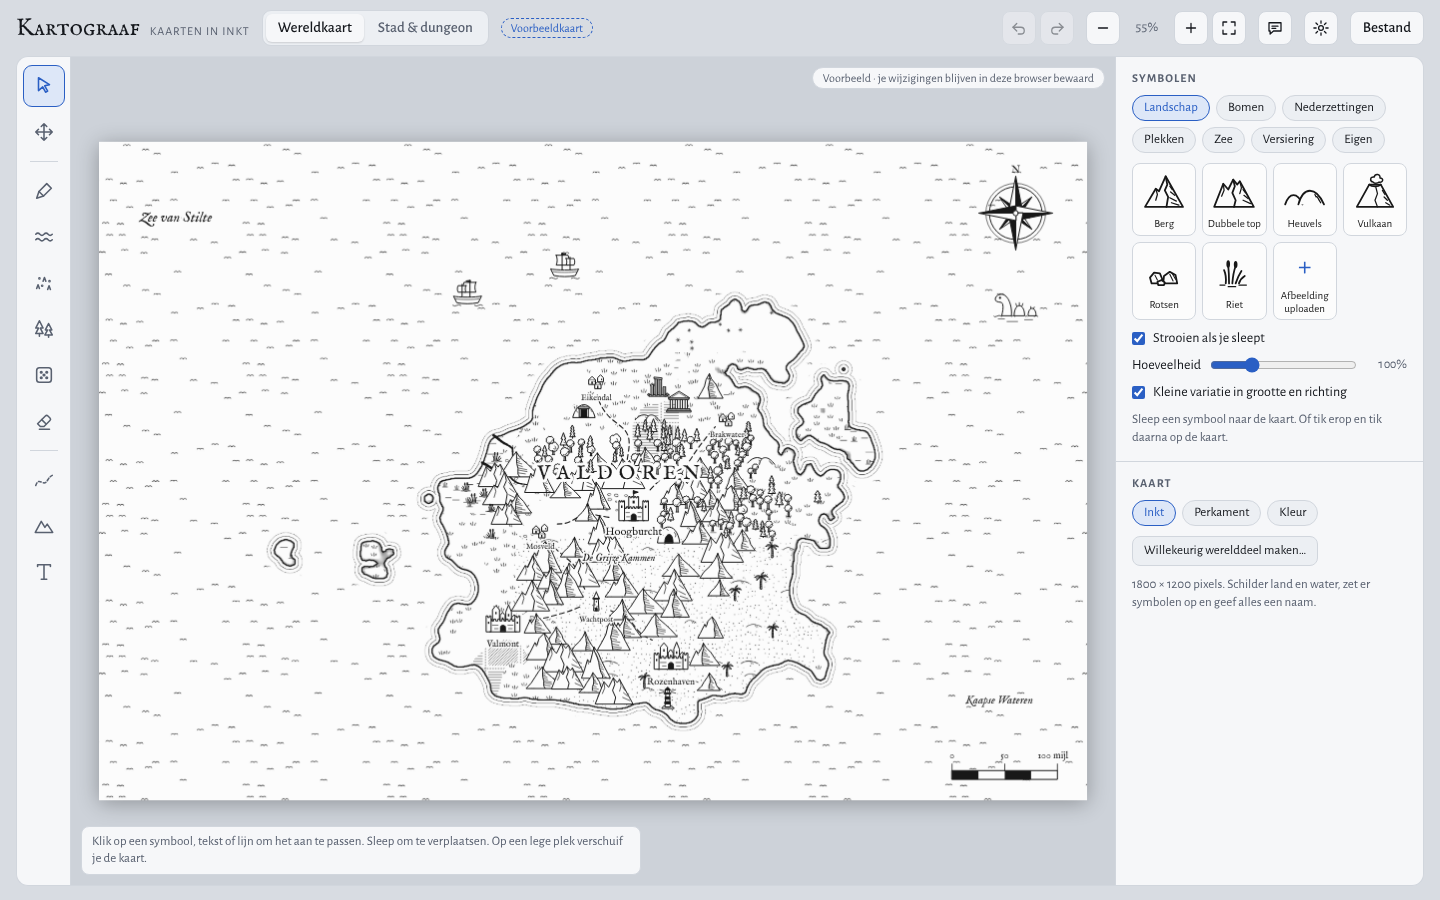
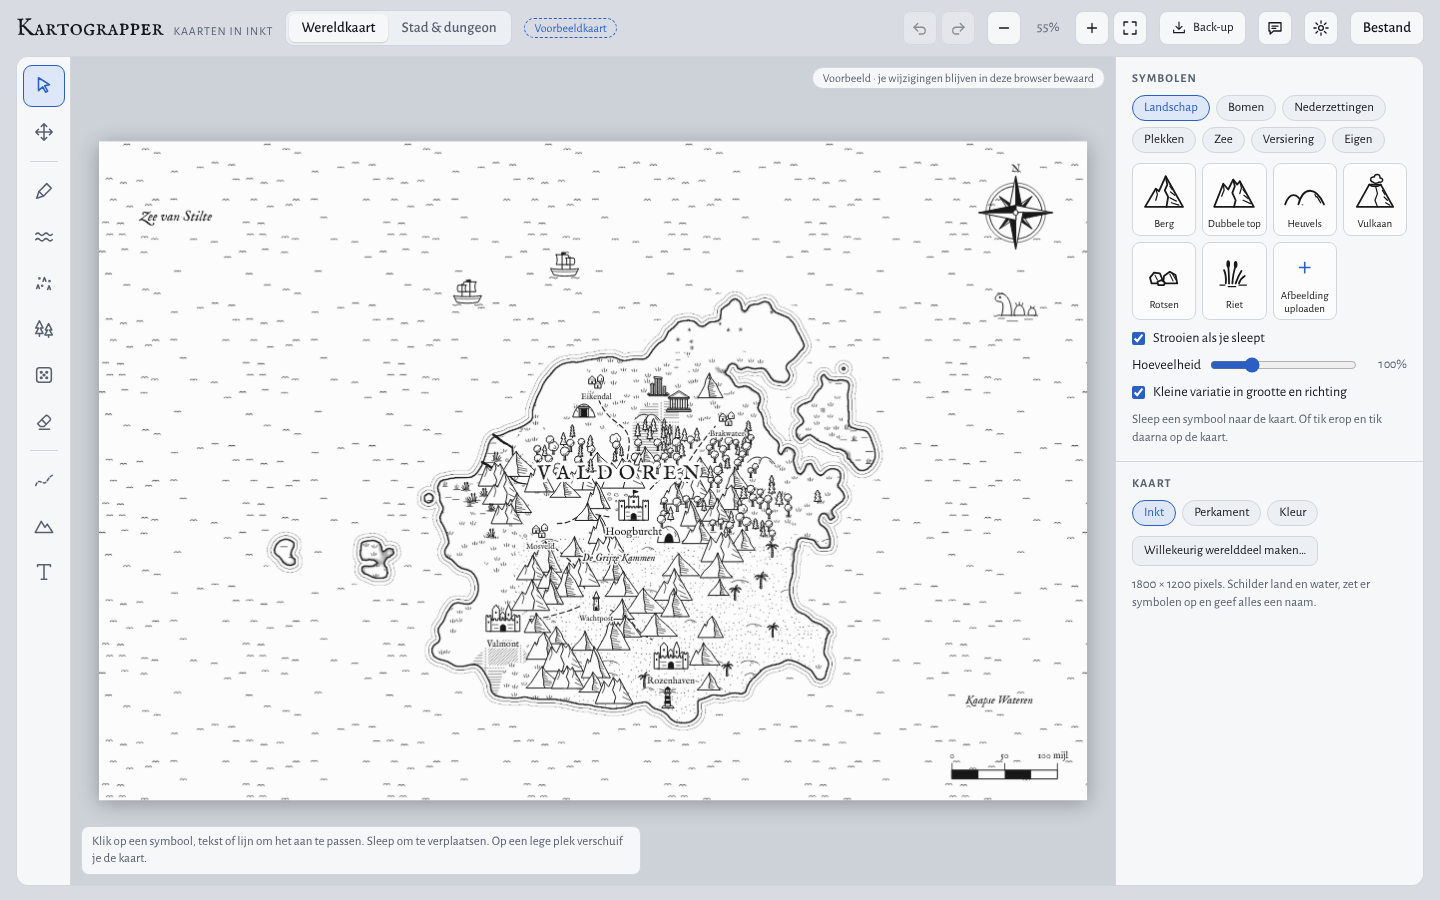
De app heet nu Kartograpper (1.8.0)
Alles wat zichtbaar is draagt de nieuwe naam: titel, kop, venster,
snelkoppelingen, Android-label, installers en back-upbestanden.
Opslagnamen, de Windows-gegevensmap en het Android-pakket blijven
ongewijzigd, zodat bestaande kaarten na de update gewoon blijven staan.

Claude-Session: https://claude.ai/code/session_01TuMUPqDhDx1mk6anT1eN2W

diff --git a/index.html b/index.html
@@ -3,7 +3,7 @@
 <head>
 <meta charset="utf-8">
 <meta name="viewport" content="width=device-width,initial-scale=1,viewport-fit=cover">
-<title>Kartograaf</title>
+<title>Kartograpper</title>
 <meta name="description" content="Teken fantasykaarten in inkt, perkament of kleur: wereldkaarten, steden en dungeons.">
 <meta name="theme-color" content="#d8dce2" media="(prefers-color-scheme: light)">
 <meta name="theme-color" content="#101317" media="(prefers-color-scheme: dark)">
@@ -11,7 +11,7 @@
 <link rel="icon" type="image/png" href="icons/icon-192.png">
 <link rel="apple-touch-icon" href="icons/apple-touch-icon.png">
 <meta name="apple-mobile-web-app-capable" content="yes">
-<meta name="apple-mobile-web-app-title" content="Kartograaf">
+<meta name="apple-mobile-web-app-title" content="Kartograpper">
 <link rel="preconnect" href="https://fonts.googleapis.com">
 <link rel="preconnect" href="https://fonts.gstatic.com" crossorigin>
 <link rel="stylesheet" href="https://fonts.googleapis.com/css2?family=Alegreya+Sans:ital,wght@0,400;0,500;0,700;1,400&family=IM+Fell+English:ital@0;1&family=IM+Fell+English+SC&display=swap">
@@ -249,7 +249,7 @@ body.dragging .stage{outline:3px dashed var(--accent);outline-offset:-6px}
 
 <div class="app" id="app">
   <header class="bar">
-    <div class="brand">Kartograaf <small>kaarten in inkt</small></div>
+    <div class="brand">Kartograpper <small>kaarten in inkt</small></div>
     <div class="seg" id="kindSeg">
       <button type="button" data-kind="world" aria-pressed="true"><span class="wide-l">Wereldkaart</span><span class="narrow-l">Wereld</span></button>
       <button type="button" data-kind="local" aria-pressed="false"><span class="wide-l">Stad &amp; dungeon</span><span class="narrow-l">Stad</span></button>
@@ -1469,7 +1469,7 @@ async function docToRecord(d, asText) {
     shapes: lib.shapes.filter(sh => d.stamps.some(st => st.a === 'c:' + sh.id)), terrains: lib.terrains.filter(t => d.layers['t:u:' + t.id]), uploads: await usedUploads(d, asText) };
 }
 async function docFromRecord(rec) {
-  if (!rec || (rec.kind !== 'world' && rec.kind !== 'local')) throw new Error('Dit is geen kaart van Kartograaf.');
+  if (!rec || (rec.kind !== 'world' && rec.kind !== 'local')) throw new Error('Dit is geen kaart van Kartograpper.');
   const w = +rec.w, h = +rec.h; if (!(w >= 200 && w <= 4000 && h >= 200 && h <= 4000)) throw new Error('Het kaartformaat klopt niet.');
   let libChanged = false;
   for (const sh of rec.shapes || []) { if (!validShape(sh)) continue; if (!lib.shapes.some(x => x.id === sh.id)) { lib.shapes.push(sh); libChanged = true; } registerShape(sh); }
@@ -2606,7 +2606,7 @@ async function libraryObject() {
   for (const u of lib.uploads) { const b = UPBLOB.get(u.id); if (b) ups.push({ ...u, data: await blobToDataURL(b) }); }
   return { app: 'kartograaf-bibliotheek', v: 1, brushes: lib.brushes, shapes: lib.shapes, terrains: lib.terrains, types: lib.types, uploads: ups };
 }
-async function saveLibraryFile() { menu.open = false; await offerFile('kartograaf-bibliotheek.json', JSON.stringify(await libraryObject())); }
+async function saveLibraryFile() { menu.open = false; await offerFile('kartograpper-bibliotheek.json', JSON.stringify(await libraryObject())); }
 
 /* ---------- import a whole folder or zip and mark what belongs where ---------- */
 const pk = { items: [], last: -1 };
@@ -3076,7 +3076,7 @@ $('#newForm').addEventListener('submit', async e => {
 
 /* ---------- boot ---------- */
 /* Updates never throw data away: before a new version touches anything, it copies your maps and library to a restore point. */
-const APP_VERSION = '1.7.1', REPO_URL = 'https://github.com/robinbollens-commits/Kartograpper';
+const APP_VERSION = '1.8.0', REPO_URL = 'https://github.com/robinbollens-commits/Kartograpper';
 let firstRun = false;
 async function guardUpdate() {
   const meta = await store.get('meta'), prev = meta && meta.version || null;
@@ -3099,7 +3099,7 @@ async function recToText(rec) {
 async function renderBackups() {
   const box = $('#libBackup'); box.textContent = '';
   const b = await store.get('backup'), rescues = [['world', await store.get('rescue:world')], ['local', await store.get('rescue:local')]].filter(x => x[1]);
-  if (!b && !rescues.length) { const p = document.createElement('p'); p.className = 'note'; p.textContent = 'Nog geen herstelpunten. Bij elke nieuwe versie van Kartograaf bewaar ik eerst automatisch een kopie van je kaarten en bibliotheek.'; box.append(p); return; }
+  if (!b && !rescues.length) { const p = document.createElement('p'); p.className = 'note'; p.textContent = 'Nog geen herstelpunten. Bij elke nieuwe versie van Kartograpper bewaar ik eerst automatisch een kopie van je kaarten en bibliotheek.'; box.append(p); return; }
   const mk = (text, buttons) => { const d = document.createElement('div'); d.className = 'backup'; const t = document.createElement('span'); t.textContent = text; d.append(t, btnRow(buttons)); box.append(d); };
   const saveRec = async (rec, name) => { if (!rec) { toast('Daar staat geen kaart in.'); return; } await offerFile(name, JSON.stringify(await recToText(rec))); };
   if (b) mk(`Kopie van ${new Date(b.date).toLocaleString('nl-BE')}, gemaakt ${b.why || 'vóór de overstap naar versie ' + b.to}.`, [
@@ -3127,15 +3127,15 @@ async function fullBackup() {
 async function saveFullBackup() {
   menu.open = false; commitLabelEdit(); toast('Back-up wordt gemaakt…');
   const d = new Date(), stamp = `${d.getFullYear()}-${String(d.getMonth() + 1).padStart(2, '0')}-${String(d.getDate()).padStart(2, '0')}`;
-  if (await offerFile(`kartograaf-backup-${stamp}.json`, JSON.stringify(await fullBackup()))) { lsSet('kartograaf.lastBackup', String(Date.now())); syncBackupDialog(); }
+  if (await offerFile(`kartograpper-backup-${stamp}.json`, JSON.stringify(await fullBackup()))) { lsSet('kartograaf.lastBackup', String(Date.now())); syncBackupDialog(); }
 }
 const lsGet = k => { try { return localStorage.getItem(k); } catch { return null; } };
 const lsSet = (k, v) => { try { if (v == null) localStorage.removeItem(k); else localStorage.setItem(k, v); } catch {} };
 function syncBackupDialog(welcome) {
   if (welcome !== undefined) {
-    $('#bkTitle').textContent = welcome ? 'Welkom bij Kartograaf' : 'Back-up';
+    $('#bkTitle').textContent = welcome ? 'Welkom bij Kartograpper' : 'Back-up';
     $('#bkIntro').textContent = welcome
-      ? 'Heb je Kartograaf al eens gebruikt op een ander toestel of in een andere installatie? Importeer dan je back-up, en je kaarten en bibliotheek staan er meteen. Nieuw? Sluit dit venster en begin met de voorbeeldkaart.'
+      ? 'Heb je Kartograpper al eens gebruikt op een ander toestel of in een andere installatie? Importeer dan je back-up, en je kaarten en bibliotheek staan er meteen. Nieuw? Sluit dit venster en begin met de voorbeeldkaart.'
       : 'Eén bestand met al je kaarten en je hele bibliotheek: geüploade assets, penselen, getekende vormen en ondergronden. Bewaar het op een veilige plek, en open het in een nieuwe installatie om verder te werken.';
     $('#bkClose').textContent = welcome ? 'Meteen beginnen' : 'Sluiten';
   }
@@ -3182,7 +3182,7 @@ $('#fullOpen').addEventListener('click', pickBackupFile);
 let fbKind = 'bug';
 function fbBody() {
   const parts = [$('#fbText').value.trim() || '(geen beschrijving)'];
-  if ($('#fbInfo').checked) parts.push('', '---', `Kartograaf ${APP_VERSION} · ${kind === 'world' ? 'Wereldkaart' : 'Stad & dungeon'} · stijl ${doc?.palette || '?'}`, `Browser: ${navigator.userAgent}`, `Scherm: ${innerWidth} × ${innerHeight}`);
+  if ($('#fbInfo').checked) parts.push('', '---', `Kartograpper ${APP_VERSION} · ${kind === 'world' ? 'Wereldkaart' : 'Stad & dungeon'} · stijl ${doc?.palette || '?'}`, `Browser: ${navigator.userAgent}`, `Scherm: ${innerWidth} × ${innerHeight}`);
   return parts.join('\n');
 }
 function fbTitle() { return ({ bug: '[Fout] ', idee: '[Idee] ', vraag: '[Vraag] ' })[fbKind] + ($('#fbTitleIn').value.trim() || 'Feedback'); }

diff --git a/src/kartograaf.html b/src/kartograaf.html
@@ -1,4 +1,4 @@
-<title>Kartograaf</title>
+<title>Kartograpper</title>
 <meta name="claude:viewport-fit-sides" content="cover">
 <link rel="preconnect" href="https://fonts.googleapis.com">
 <link rel="preconnect" href="https://fonts.gstatic.com" crossorigin>
@@ -228,7 +228,7 @@ body.dragging .stage{outline:3px dashed var(--accent);outline-offset:-6px}
 
 <div class="app" id="app">
   <header class="bar">
-    <div class="brand">Kartograaf <small>kaarten in inkt</small></div>
+    <div class="brand">Kartograpper <small>kaarten in inkt</small></div>
     <div class="seg" id="kindSeg">
       <button type="button" data-kind="world" aria-pressed="true"><span class="wide-l">Wereldkaart</span><span class="narrow-l">Wereld</span></button>
       <button type="button" data-kind="local" aria-pressed="false"><span class="wide-l">Stad &amp; dungeon</span><span class="narrow-l">Stad</span></button>
@@ -1448,7 +1448,7 @@ async function docToRecord(d, asText) {
     shapes: lib.shapes.filter(sh => d.stamps.some(st => st.a === 'c:' + sh.id)), terrains: lib.terrains.filter(t => d.layers['t:u:' + t.id]), uploads: await usedUploads(d, asText) };
 }
 async function docFromRecord(rec) {
-  if (!rec || (rec.kind !== 'world' && rec.kind !== 'local')) throw new Error('Dit is geen kaart van Kartograaf.');
+  if (!rec || (rec.kind !== 'world' && rec.kind !== 'local')) throw new Error('Dit is geen kaart van Kartograpper.');
   const w = +rec.w, h = +rec.h; if (!(w >= 200 && w <= 4000 && h >= 200 && h <= 4000)) throw new Error('Het kaartformaat klopt niet.');
   let libChanged = false;
   for (const sh of rec.shapes || []) { if (!validShape(sh)) continue; if (!lib.shapes.some(x => x.id === sh.id)) { lib.shapes.push(sh); libChanged = true; } registerShape(sh); }
@@ -2585,7 +2585,7 @@ async function libraryObject() {
   for (const u of lib.uploads) { const b = UPBLOB.get(u.id); if (b) ups.push({ ...u, data: await blobToDataURL(b) }); }
   return { app: 'kartograaf-bibliotheek', v: 1, brushes: lib.brushes, shapes: lib.shapes, terrains: lib.terrains, types: lib.types, uploads: ups };
 }
-async function saveLibraryFile() { menu.open = false; await offerFile('kartograaf-bibliotheek.json', JSON.stringify(await libraryObject())); }
+async function saveLibraryFile() { menu.open = false; await offerFile('kartograpper-bibliotheek.json', JSON.stringify(await libraryObject())); }
 
 /* ---------- import a whole folder or zip and mark what belongs where ---------- */
 const pk = { items: [], last: -1 };
@@ -3055,7 +3055,7 @@ $('#newForm').addEventListener('submit', async e => {
 
 /* ---------- boot ---------- */
 /* Updates never throw data away: before a new version touches anything, it copies your maps and library to a restore point. */
-const APP_VERSION = '1.7.1', REPO_URL = 'https://github.com/robinbollens-commits/Kartograpper';
+const APP_VERSION = '1.8.0', REPO_URL = 'https://github.com/robinbollens-commits/Kartograpper';
 let firstRun = false;
 async function guardUpdate() {
   const meta = await store.get('meta'), prev = meta && meta.version || null;
@@ -3078,7 +3078,7 @@ async function recToText(rec) {
 async function renderBackups() {
   const box = $('#libBackup'); box.textContent = '';
   const b = await store.get('backup'), rescues = [['world', await store.get('rescue:world')], ['local', await store.get('rescue:local')]].filter(x => x[1]);
-  if (!b && !rescues.length) { const p = document.createElement('p'); p.className = 'note'; p.textContent = 'Nog geen herstelpunten. Bij elke nieuwe versie van Kartograaf bewaar ik eerst automatisch een kopie van je kaarten en bibliotheek.'; box.append(p); return; }
+  if (!b && !rescues.length) { const p = document.createElement('p'); p.className = 'note'; p.textContent = 'Nog geen herstelpunten. Bij elke nieuwe versie van Kartograpper bewaar ik eerst automatisch een kopie van je kaarten en bibliotheek.'; box.append(p); return; }
   const mk = (text, buttons) => { const d = document.createElement('div'); d.className = 'backup'; const t = document.createElement('span'); t.textContent = text; d.append(t, btnRow(buttons)); box.append(d); };
   const saveRec = async (rec, name) => { if (!rec) { toast('Daar staat geen kaart in.'); return; } await offerFile(name, JSON.stringify(await recToText(rec))); };
   if (b) mk(`Kopie van ${new Date(b.date).toLocaleString('nl-BE')}, gemaakt ${b.why || 'vóór de overstap naar versie ' + b.to}.`, [
@@ -3106,15 +3106,15 @@ async function fullBackup() {
 async function saveFullBackup() {
   menu.open = false; commitLabelEdit(); toast('Back-up wordt gemaakt…');
   const d = new Date(), stamp = `${d.getFullYear()}-${String(d.getMonth() + 1).padStart(2, '0')}-${String(d.getDate()).padStart(2, '0')}`;
-  if (await offerFile(`kartograaf-backup-${stamp}.json`, JSON.stringify(await fullBackup()))) { lsSet('kartograaf.lastBackup', String(Date.now())); syncBackupDialog(); }
+  if (await offerFile(`kartograpper-backup-${stamp}.json`, JSON.stringify(await fullBackup()))) { lsSet('kartograaf.lastBackup', String(Date.now())); syncBackupDialog(); }
 }
 const lsGet = k => { try { return localStorage.getItem(k); } catch { return null; } };
 const lsSet = (k, v) => { try { if (v == null) localStorage.removeItem(k); else localStorage.setItem(k, v); } catch {} };
 function syncBackupDialog(welcome) {
   if (welcome !== undefined) {
-    $('#bkTitle').textContent = welcome ? 'Welkom bij Kartograaf' : 'Back-up';
+    $('#bkTitle').textContent = welcome ? 'Welkom bij Kartograpper' : 'Back-up';
     $('#bkIntro').textContent = welcome
-      ? 'Heb je Kartograaf al eens gebruikt op een ander toestel of in een andere installatie? Importeer dan je back-up, en je kaarten en bibliotheek staan er meteen. Nieuw? Sluit dit venster en begin met de voorbeeldkaart.'
+      ? 'Heb je Kartograpper al eens gebruikt op een ander toestel of in een andere installatie? Importeer dan je back-up, en je kaarten en bibliotheek staan er meteen. Nieuw? Sluit dit venster en begin met de voorbeeldkaart.'
       : 'Eén bestand met al je kaarten en je hele bibliotheek: geüploade assets, penselen, getekende vormen en ondergronden. Bewaar het op een veilige plek, en open het in een nieuwe installatie om verder te werken.';
     $('#bkClose').textContent = welcome ? 'Meteen beginnen' : 'Sluiten';
   }
@@ -3161,7 +3161,7 @@ $('#fullOpen').addEventListener('click', pickBackupFile);
 let fbKind = 'bug';
 function fbBody() {
   const parts = [$('#fbText').value.trim() || '(geen beschrijving)'];
-  if ($('#fbInfo').checked) parts.push('', '---', `Kartograaf ${APP_VERSION} · ${kind === 'world' ? 'Wereldkaart' : 'Stad & dungeon'} · stijl ${doc?.palette || '?'}`, `Browser: ${navigator.userAgent}`, `Scherm: ${innerWidth} × ${innerHeight}`);
+  if ($('#fbInfo').checked) parts.push('', '---', `Kartograpper ${APP_VERSION} · ${kind === 'world' ? 'Wereldkaart' : 'Stad & dungeon'} · stijl ${doc?.palette || '?'}`, `Browser: ${navigator.userAgent}`, `Scherm: ${innerWidth} × ${innerHeight}`);
   return parts.join('\n');
 }
 function fbTitle() { return ({ bug: '[Fout] ', idee: '[Idee] ', vraag: '[Vraag] ' })[fbKind] + ($('#fbTitleIn').value.trim() || 'Feedback'); }

diff --git a/desktop/main.js b/desktop/main.js
@@ -1,15 +1,17 @@
-// Kartograaf for Windows: a window around the same index.html as the website.
+// Kartograpper for Windows: a window around the same index.html as the website.
 // Maps and assets live in IndexedDB under %APPDATA%\Kartograaf, which installing an update never touches.
 const { app, BrowserWindow, Menu, shell } = require('electron');
 const path = require('path');
 
+// The app was called Kartograaf before; its data folder keeps that name so nothing gets lost after the rename.
+app.setPath('userData', path.join(app.getPath('appData'), 'Kartograaf'));
 if (!app.requestSingleInstanceLock()) app.quit();
 
 let win = null;
 function createWindow() {
   win = new BrowserWindow({
     width: 1440, height: 900, minWidth: 800, minHeight: 560,
-    title: 'Kartograaf', backgroundColor: '#d8dce2', autoHideMenuBar: true,
+    title: 'Kartograpper', backgroundColor: '#d8dce2', autoHideMenuBar: true,
     icon: path.join(__dirname, 'web', 'icons', 'icon-512.png'),
     webPreferences: { contextIsolation: true, sandbox: true },
   });

diff --git a/sw.js b/sw.js
@@ -1,7 +1,7 @@
-// Kartograaf service worker: makes the app work offline and installable.
+// Kartograpper service worker: makes the app work offline and installable.
 // It only caches the app's own files. Maps, uploads and brushes are stored in IndexedDB,
 // which this worker never reads or deletes, so an update can't remove anyone's work.
-const VERSION = '1.7.1';
+const VERSION = '1.8.0';
 const CACHE = 'kartograaf-app-' + VERSION;
 const CDN_CACHE = 'kartograaf-cdn';
 const CORE = ['./', './index.html', './manifest.webmanifest', './icons/icon-192.png', './icons/icon-512.png'];

diff --git a/README.md b/README.md
@@ -1,8 +1,8 @@
-# Kartograaf
+# Kartograpper
 
 Teken je eigen fantasykaarten in de browser: wereldkaarten met kusten, bergketens en bossen, of plattegronden van steden en dungeons. In zwart-wit inkt, sepia perkament of in kleur.
 
-![Kartograaf met een wereldkaart in kleur](docs/screenshot-kleur.png)
+![Kartograpper met een wereldkaart in kleur](docs/screenshot-kleur.png)
 
 ![Dezelfde kaart in zwart-wit inkt](docs/screenshot-inkt.png)
 
@@ -16,14 +16,14 @@ Op de pagina [Releases](https://github.com/robinbollens-commits/Kartograpper/rel
 
 | Toestel | Bestand | Zo installeer je |
 |---|---|---|
-| Windows | `Kartograaf-Setup-….exe` | Dubbelklik. Waarschuwt Windows dat de uitgever onbekend is, klik dan *Meer informatie › Toch uitvoeren*. |
-| Android | `Kartograaf-….apk` | Open het bestand op je telefoon en sta *Installeren uit onbekende bronnen* toe. |
+| Windows | `Kartograpper-Setup-….exe` | Dubbelklik. Waarschuwt Windows dat de uitgever onbekend is, klik dan *Meer informatie › Toch uitvoeren*. |
+| Android | `Kartograpper-….apk` | Open het bestand op je telefoon en sta *Installeren uit onbekende bronnen* toe. |
 
 Een nieuwe versie installeer je gewoon over de oude heen. Je kaarten blijven bewaard.
 
 ## Installeren vanuit de browser
 
-Kartograaf is ook een website die je als app kunt installeren. Daarna start hij vanaf je bureaublad of beginscherm en werkt hij zonder internet.
+Kartograpper is ook een website die je als app kunt installeren. Daarna start hij vanaf je bureaublad of beginscherm en werkt hij zonder internet.
 
 | Toestel | Zo installeer je |
 |---|---|
@@ -57,12 +57,12 @@ Kartograaf is ook een website die je als app kunt installeren. Daarna start hij 
 
 Klik rechtsboven op **Back-up**:
 
-- **Exporteren** bewaart al je kaarten en je hele bibliotheek (geüploade assets, penselen, getekende vormen en ondergronden) in één bestand, bv. `kartograaf-backup-2026-10-21.json`.
+- **Exporteren** bewaart al je kaarten en je hele bibliotheek (geüploade assets, penselen, getekende vormen en ondergronden) in één bestand, bv. `kartograpper-backup-2026-10-21.json`.
 - **Importeren** zet zo'n bestand terug. Je kunt het bestand ook gewoon op het venster slepen.
 
 Een nieuwe installatie (andere computer, telefoon, de Windows-app of de Android-app) vraagt bij de eerste start meteen of je een back-up wilt importeren.
 
-Vóór elk importeren en elke update maakt Kartograaf een herstelpunt (*Instellingen › Back-up*). Exporteer zelf af en toe een back-up: je gegevens staan alleen op je eigen toestel.
+Vóór elk importeren en elke update maakt Kartograpper een herstelpunt (*Instellingen › Back-up*). Exporteer zelf af en toe een back-up: je gegevens staan alleen op je eigen toestel.
 
 ## Feedback
 

diff --git a/CHANGELOG.md b/CHANGELOG.md
@@ -1,5 +1,10 @@
 # Wijzigingen
 
+## 1.8.0
+
+- De app heet nu overal **Kartograpper** (Kartograaf + mapper): in de titel, het venster, de snelkoppelingen, onder het app-icoon en in de namen van de installers en back-upbestanden.
+- Je kaarten en bibliotheek blijven gewoon staan: de plek waar ze bewaard worden verandert niet. Oude back-upbestanden (`kartograaf-backup-….json`) kun je nog altijd importeren.
+
 ## 1.7.1
 
 - Herstel: de keuze per soort bij de gum verscheen niet door een fout in 1.7.0.
